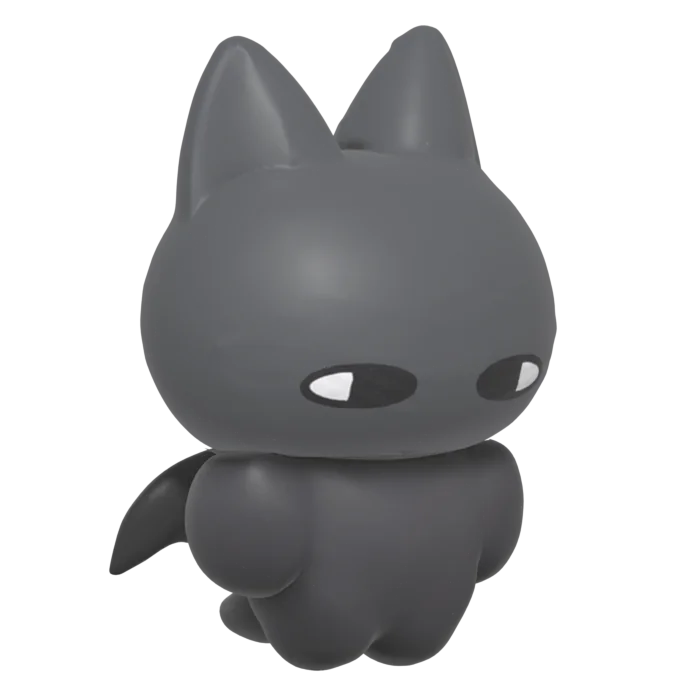
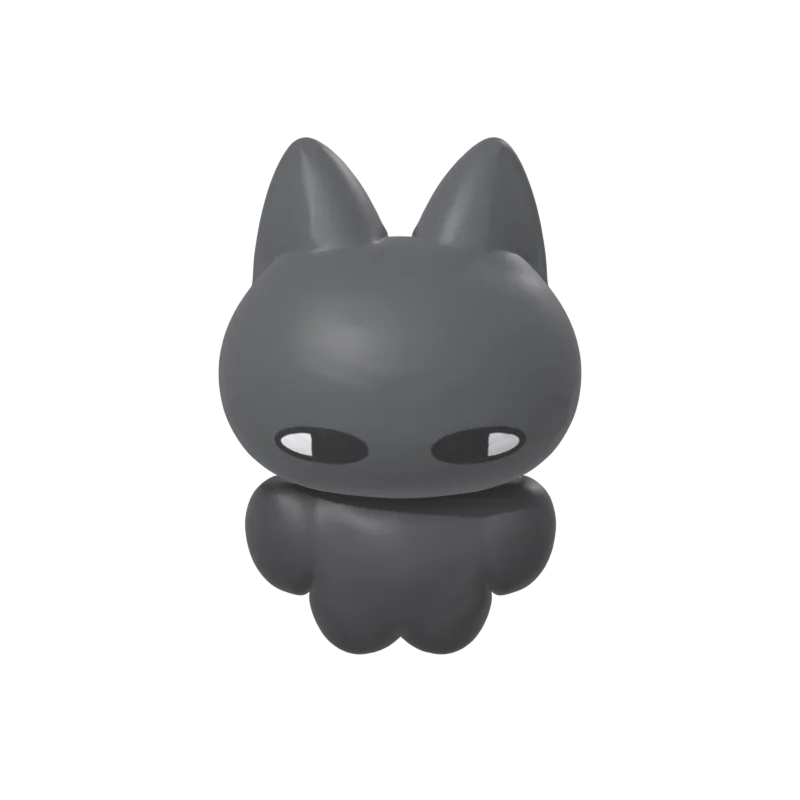
Smaller 3D characters with room for shadows; remove tap-to-talk

Changed region(s): [[0.15, 0.03, 0.81, 0.96], [0.42, 0.36, 0.48, 0.39]]

diff --git a/index.html b/index.html
@@ -43,7 +43,7 @@
 <link rel="preconnect" href="https://fonts.gstatic.com" crossorigin />
 <link href="https://fonts.googleapis.com/css2?family=Jost:wght@300;400&family=Inter:wght@400&family=Noto+Sans+KR:wght@400&family=Zen+Kaku+Gothic+New:wght@400&display=swap" rel="stylesheet" />
 <link rel="preload" href="assets/img/clouds.webp" as="image" type="image/webp" />
-<link rel="stylesheet" href="assets/css/style.css?v=23" />
+<link rel="stylesheet" href="assets/css/style.css?v=24" />
 </head>
 <body class="lang-ja">
 
@@ -149,14 +149,13 @@
     <div class="charas">
       <article class="chara">
         <figure class="chara__fig chara__fig--3d">
-          <model-viewer class="chara__model chara__talk" data-chara="lune" data-src="assets/models/lune.glb" poster="assets/img/lune_3d_poster.webp"
+          <model-viewer class="chara__model" data-chara="lune" data-src="assets/models/lune.glb" poster="assets/img/lune_3d_poster.webp"
             alt="Lune — a small dark-grey moon fairy with cat ears, sleepy eyes and bat wings, in 3D"
             camera-controls disable-zoom disable-pan touch-action="pan-y" interaction-prompt="none"
             auto-rotate auto-rotate-delay="0" rotation-per-second="-12deg"
-            camera-orbit="0deg 78deg auto" field-of-view="26deg"
+            camera-orbit="0deg 76deg 128%" max-camera-orbit="auto auto 300%" field-of-view="30deg"
             shadow-intensity="0.7" shadow-softness="1" exposure="1.15" environment-image="neutral"></model-viewer>
-          <p class="chara__bubble" role="status" aria-live="polite"></p>
-          <button type="button" class="chara__hint chara__hint--btn" data-talk="lune">Drag to spin · Tap to talk</button>
+          <span class="chara__hint" aria-hidden="true">Drag to spin</span>
         </figure>
         <h3 class="chara__name">Lune</h3>
         <dl class="chara__profile">
@@ -169,14 +168,13 @@
       <article class="chara">
         <figure class="chara__fig chara__fig--3d">
           <!-- 3D: model-viewer is loaded on demand (main.js) when this section comes near -->
-          <model-viewer class="chara__model chara__talk" data-chara="fee" data-src="assets/models/fee.glb" poster="assets/img/fee_3d_poster.webp"
+          <model-viewer class="chara__model" data-chara="fee" data-src="assets/models/fee.glb" poster="assets/img/fee_3d_poster.webp"
             alt="Fee — a small white moon fairy with cat ears, star eyes and pale blue wings, in 3D"
             camera-controls disable-zoom disable-pan touch-action="pan-y" interaction-prompt="none"
             auto-rotate auto-rotate-delay="0" rotation-per-second="16deg"
-            camera-orbit="0deg 78deg auto" field-of-view="26deg"
+            camera-orbit="0deg 76deg 128%" max-camera-orbit="auto auto 300%" field-of-view="30deg"
             shadow-intensity="0.7" shadow-softness="1" exposure="1.05" environment-image="neutral"></model-viewer>
-          <p class="chara__bubble" role="status" aria-live="polite"></p>
-          <button type="button" class="chara__hint chara__hint--btn" data-talk="fee">Drag to spin · Tap to talk</button>
+          <span class="chara__hint" aria-hidden="true">Drag to spin</span>
         </figure>
         <h3 class="chara__name">Fee</h3>
         <dl class="chara__profile">
@@ -264,6 +262,6 @@
 </footer>
 
 <script src="https://cdn.jsdelivr.net/npm/lenis@1.1.14/dist/lenis.min.js"></script>
-<script src="assets/js/main.js?v=23"></script>
+<script src="assets/js/main.js?v=24"></script>
 </body>
 </html>

diff --git a/assets/js/main.js b/assets/js/main.js
@@ -52,19 +52,6 @@
     }
   };
 
-  /* what Lune & Fee say when tapped (cycled in order, per language) */
-  var LINES = {
-    lune: {
-      ja: ['……ケーキ、半分こする？', 'だいじょうぶ？ なにか手伝おうか', '今日もおつかれさま', '……（そっと手をふる）'],
-      en: ['…Want to share a slice of cake?', 'Are you okay? Can I help?', 'You did great today.', '…(waves quietly)'],
-      ko: ['……케이크, 반씩 나눠 먹을래?', '괜찮아? 뭐 도와줄까?', '오늘도 수고했어.', '……(살짝 손을 흔든다)']
-    },
-    fee: {
-      ja: ['ハンバーガー食べに行こ！', 'ねえねえ、あれなに！？', 'たのしいこと、はじまる予感！', 'きょうは何して遊ぶ？'],
-      en: ['Let\u2019s go get burgers!', 'Hey hey, what\u2019s that?!', 'I can feel something fun coming!', 'What should we play today?'],
-      ko: ['햄버거 먹으러 가자!', '저기 저거 뭐야!?', '재밌는 일이 생길 것 같아!', '오늘은 뭐 하고 놀까?']
-    }
-  };
   var currentLang = 'ja';
 
   /* ---------- today's moon ------------------------------------ */
@@ -175,48 +162,6 @@
     });
   }
   syncTheme();
-
-  /* ---------- Lune & Fee: tap to talk ------------------------- */
-  document.querySelectorAll('.chara__talk').forEach(function (btn) {
-    var who = btn.getAttribute('data-chara');
-    var fig = btn.parentNode;
-    var bubble = fig.querySelector('.chara__bubble');
-    var idx = 0, hideT;
-    // the 3D figure is dragged to spin: only a tap (no real movement) should make it talk
-    var downX = 0, downY = 0, moved = false;
-    btn.addEventListener('pointerdown', function (e) { downX = e.clientX; downY = e.clientY; moved = false; });
-    btn.addEventListener('pointermove', function (e) {
-      if (Math.abs(e.clientX - downX) + Math.abs(e.clientY - downY) > 6) moved = true;
-    });
-    var extra = fig.querySelector('[data-talk]');
-    if (extra) extra.addEventListener('click', function () { moved = false; talk(); });
-    btn.addEventListener('click', function () { if (!moved) talk(); });
-    function talk() {
-      var list = (LINES[who] || {})[currentLang] || [];
-      if (!list.length || !bubble) return;
-      bubble.textContent = list[idx % list.length];
-      idx++;
-      bubble.classList.add('is-on');
-      clearTimeout(hideT);
-      hideT = setTimeout(function () { bubble.classList.remove('is-on'); }, 2800);
-
-      if (reduce) return;
-      btn.classList.remove('is-hop'); void btn.offsetWidth; btn.classList.add('is-hop');
-      for (var i = 0; i < 7; i++) {
-        var sp = document.createElement('span');
-        sp.className = 'chara__spark';
-        sp.textContent = '\u2726';
-        var ang = Math.random() * Math.PI * 2, dist = 40 + Math.random() * 60;
-        sp.style.setProperty('--sx', (30 + Math.random() * 40) + '%');
-        sp.style.setProperty('--sy', (35 + Math.random() * 30) + '%');
-        sp.style.setProperty('--dx', Math.cos(ang) * dist + 'px');
-        sp.style.setProperty('--dy', Math.sin(ang) * dist - 20 + 'px');
-        sp.style.setProperty('--ss', (9 + Math.random() * 9) + 'px');
-        fig.appendChild(sp);
-        setTimeout(function (n) { n.remove(); }, 950, sp);
-      }
-    }
-  });
 
   /* ---------- 3D characters: load model-viewer only when the section comes near ---------- */
   var models = document.querySelectorAll('model-viewer[data-src]');

diff --git a/assets/css/style.css b/assets/css/style.css
@@ -614,7 +614,7 @@ html.lenis, html.lenis body{ height:auto; }
   gap:clamp(2.5rem, 6vw, 5rem);
   margin-top:clamp(1.5rem, 4vw, 3rem);
 }
-.chara__fig{ position:relative; margin:0 0 1.8rem; }
+.chara__fig{ position:relative; margin:0 0 2.8rem; }
 .chara__talk{
   display:block; width:100%; position:relative;
   border-radius:1.5rem; -webkit-tap-highlight-color:transparent;
@@ -633,9 +633,9 @@ html.lenis, html.lenis body{ height:auto; }
 /* 3D figure (model-viewer): same visual height as the drawings next to it */
 .chara__fig--3d{ display:flex; flex-direction:column; align-items:center; }
 /* keep both figures the same height so the names and profiles line up */
-.charas .chara__fig{ min-height:calc(clamp(210px, 24vw, 290px) + 2.6rem); display:flex; flex-direction:column; justify-content:center; }
+.charas .chara__fig{ min-height:calc(clamp(220px, 23vw, 280px) + 2.6rem); display:flex; flex-direction:column; justify-content:center; }
 .chara__model{
-  display:block; width:100%; height:clamp(210px, 24vw, 290px);
+  display:block; width:100%; height:clamp(220px, 23vw, 280px);   /* wide fov → figure sits small with room for its shadow */
   background:transparent; --poster-color:transparent; --progress-bar-color:var(--accent-deep);
   cursor:grab; outline:none;
 }
